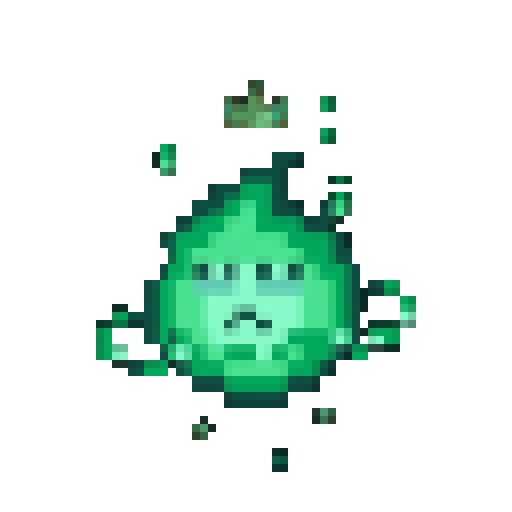
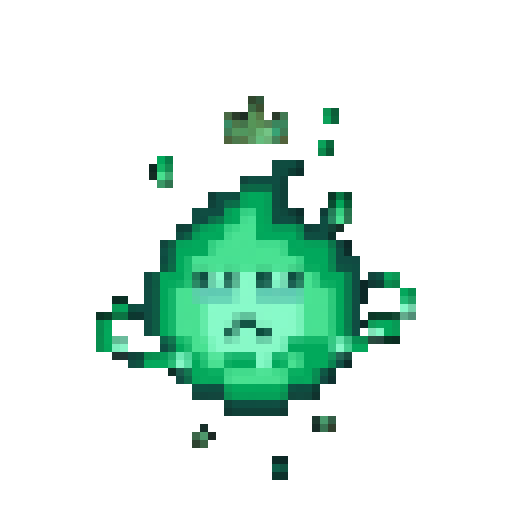
feat(ui): animate Cuprum top fire particles with 4px floating shift in idle loop

diff --git a/frontend/src/components/CuprumCompanionPanel.tsx b/frontend/src/components/CuprumCompanionPanel.tsx
@@ -294,22 +294,15 @@ export function CuprumCompanionPanel({
   useEffect(() => {
     if (isAlerting) return;
 
-    if (isOpen && hasAnyContent) {
-      // Talking animation rhythm (gentle mouth movement during briefing)
-      animIntervalRef.current = window.setInterval(() => {
-        setExpression((prev) => (prev === 'talk' ? 'idle-1' : 'talk'));
-      }, 340);
-    } else {
-      // Idle floating / breathing rhythm between frame 1 and frame 2
-      animIntervalRef.current = window.setInterval(() => {
-        setExpression((prev) => (prev === 'idle-2' ? 'idle-1' : 'idle-2'));
-      }, 760);
-    }
+    // Continuous 2-frame fire particle floating animation
+    animIntervalRef.current = window.setInterval(() => {
+      setExpression((prev) => (prev === 'idle-2' ? 'idle-1' : 'idle-2'));
+    }, 600);
 
     return () => {
       if (animIntervalRef.current) clearInterval(animIntervalRef.current);
     };
-  }, [isOpen, hasAnyContent, isAlerting]);
+  }, [isAlerting]);
 
   // Periodic Blink every 3.8s
   useEffect(() => {
@@ -318,7 +311,7 @@ export function CuprumCompanionPanel({
         setExpression('blink');
         setTimeout(() => {
           setExpression('idle-1');
-        }, 150);
+        }, 160);
       }
       blinkTimerRef.current = window.setTimeout(triggerBlink, 3400 + Math.random() * 1200);
     };
@@ -336,7 +329,7 @@ export function CuprumCompanionPanel({
     setIsOpen((prev) => !prev);
     setTimeout(() => {
       setIsAlerting(false);
-      setExpression(isOpen ? 'idle-1' : 'talk');
+      setExpression('idle-1');
     }, 380);
   };
 
@@ -425,8 +418,6 @@ export function CuprumCompanionPanel({
               style={{
                 width: 140,
                 height: 140,
-                transition: 'all 200ms ease',
-                transform: expression === 'idle-2' ? 'translateY(-3px)' : 'translateY(0)',
               }}
             >
               <picture>
